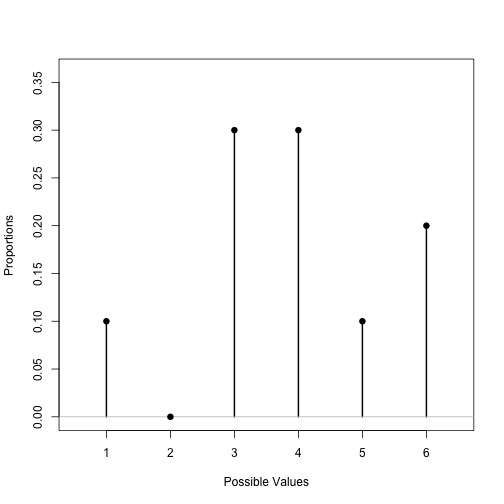
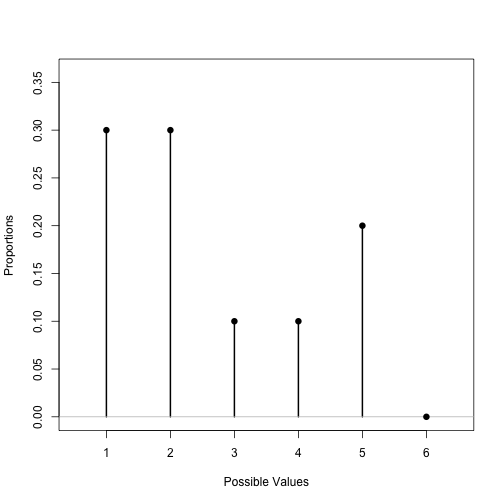
Continue work on the slides

diff --git a/hare_eric_cc_defense.md b/hare_eric_cc_defense.md
@@ -168,7 +168,7 @@ X.sim
 
 ```
 1/6 1/6 1/6 1/6 1/6 1/6 1/6 1/6 1/6 1/6 
-  6   5   4   4   3   3   4   6   3   1 
+  2   5   2   4   1   1   3   2   5   1 
 attr(,"RV")
 random variable with 6 outcomes
 
@@ -219,6 +219,121 @@ library(peptider)
 ```
 
 
+Peptide Encoding
+========================================================
+Idea - Divide 20 amino acids into classes based on the number of codons describing each amino acid.
+
+SLRLLRS = $6^7$ = 279936 distinct codon sequences yielding this peptide
+
+MWMWMWM = $1^7$ = 1 distinct codon sequence yielding this peptide
+
+Peptide Encoding
+========================================================
+Depending on the Encoding scheme, this yields either one, three, or five classes:
+
+* NNN - A/G/C/T unrestricted in all three positions
+* NNB - First two unrestricted, third either C/G/T
+* NNK (NNS) - First two unrestricted, third either G/T (G/C)
+* trimer - Codons are pre-defined, equal probabilities for all AA
+
+Peptide Encoding (continued)
+========================================================
+
+```r
+libscheme("NNN")$info$scheme
+```
+
+```
+  class    aacids c s
+1     A       SLR 6 3
+2     B     AGPTV 4 5
+3     C         I 3 1
+4     D DEFHKNQYC 2 9
+5     E        MW 1 2
+6     Z         * 3 1
+```
+
+The probability of a single amino acid class i occurring is defined as (ignoring class Z):
+
+$c_is_i / \sum_{i=1}^n c_is_i, i \ne Z$
+
+Peptide Encoding (continued)
+========================================================
+So we can create a random variable representing the occurrence of a single amino acid class.
+
+Treating each amino acid as independent in a peptide sequence, we can use the multN function to compute the joint distribution for peptides of length k.
+
+
+```r
+head(libscheme("NNK", 6)$data, n = 4)
+```
+
+```
+                  class   di     probs
+A.A.A.A.A.A A.A.A.A.A.A  729 0.0005988
+A.A.A.A.A.B A.A.A.A.A.B 1215 0.0006653
+A.A.A.A.A.C A.A.A.A.A.C 2916 0.0007984
+A.A.A.A.B.A A.A.A.A.B.A 1215 0.0006653
+```
+
+
+Peptide Library Measures
+========================================================
+Functional Diversity - Measure of diversity where 1 is a library in which each peptide has the same probability of occurrence, which drops towards zero for increasingly skewed distributions 
+
+$D(N, k) = \sum_{i=1}^{v^k}b_i(1 - e^{-Np_i/b_i})$
+
+
+```r
+makowski(4, "NNK")
+```
+
+```
+[1] 0.4399
+```
+
+
+Peptide Library Measures (continued)
+========================================================
+Expected Coverage - The expected proportion of all possible peptides of length k included in the library.
+
+$C(N, k) = D(N, k)/c^k$
+
+
+```r
+coverage(4, "NNK", N = 10^5)
+```
+
+```
+[1] 0.3532
+```
+
+
 PeLiCa
 ========================================================
 Shiny-based web-frontend to peptider
+
+Available at http://www.pelica.org
+
+Development version available at http://erichare.shinyapps.io/pelica
+
+Features
+========================================================
+* Full-featured frontend for peptider
+* Use pre-built library schemes or create a custom scheme
+* Textual and graphical visualization of library properties
+* Supports peptide lengths six through ten, library sizes up to $9.9 \times 10^{15}$
+
+PeLiCa - Live Demo
+========================================================
+
+Conclusion
+========================================================
+PeLiCa is powerful and easy to use...
+
+... But this was only possible because of the modular nature of the components it builds upon.
+![The layers of my project](figure/CC_Drawing_1.png)
+
+Thank You
+========================================================
+Any questions?
